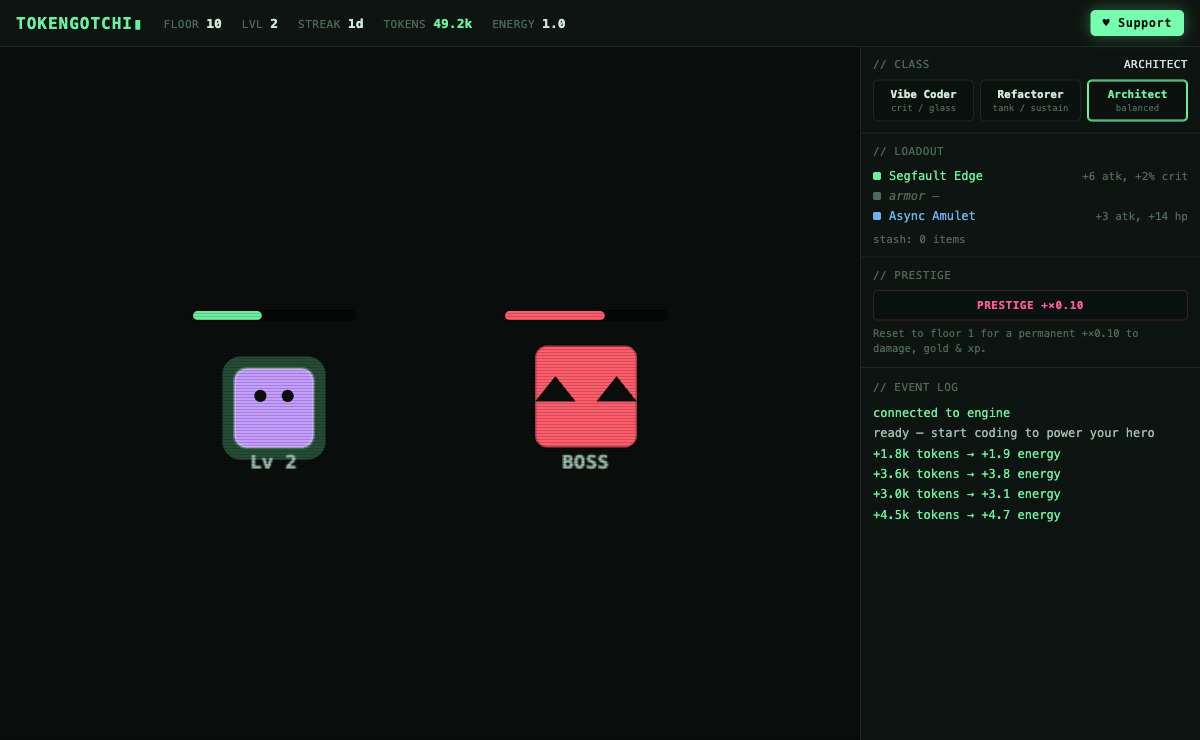
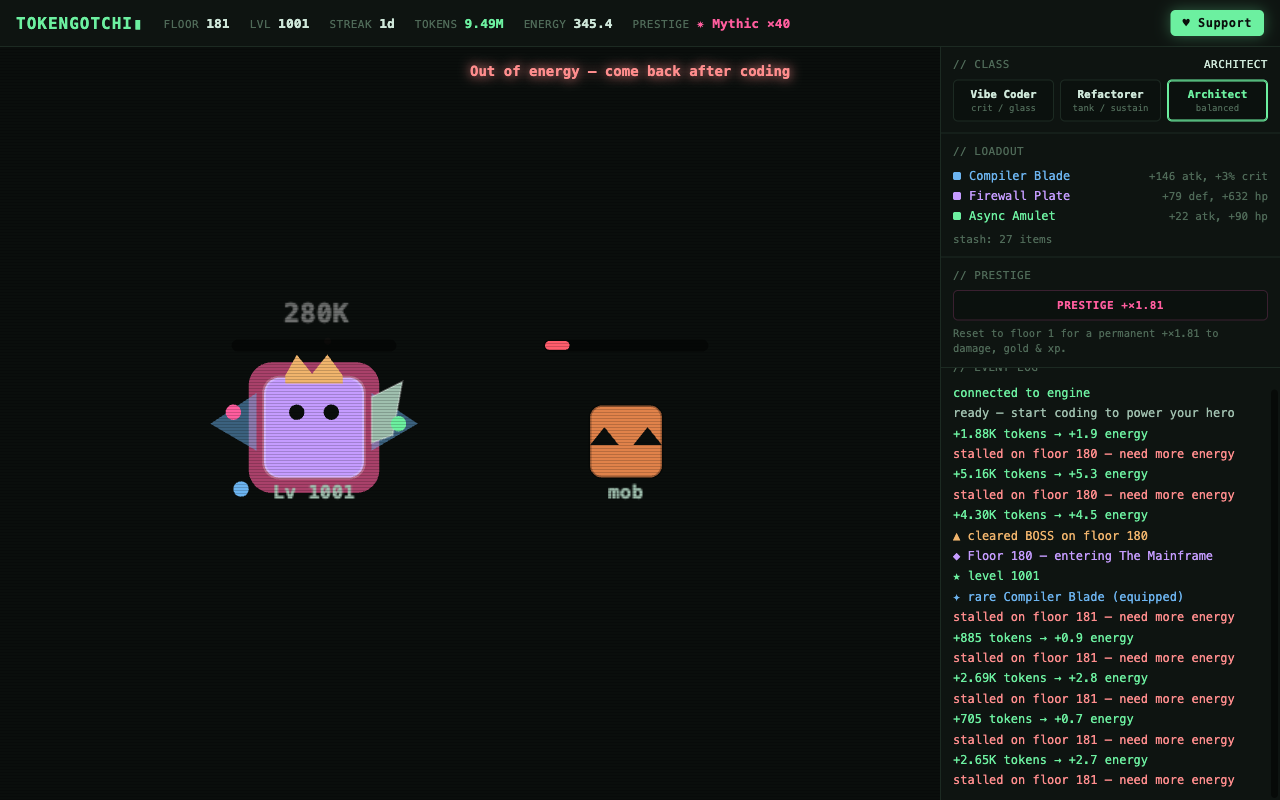
docs(site): embed gameplay video, refresh features for deep progression, fix support heading alignment, add Buy Me a Coffee

diff --git a/docs/index.html b/docs/index.html
@@ -103,7 +103,7 @@
       .shot .bar { display: flex; gap: 7px; padding: 10px 13px; border-bottom: 1px solid var(--line); background: var(--panel2); }
       .shot .bar i { width: 11px; height: 11px; border-radius: 50%; display: inline-block; }
       .shot .bar i:nth-child(1){ background:#ff5f57;} .shot .bar i:nth-child(2){ background:#febc2e;} .shot .bar i:nth-child(3){ background:#28c840;}
-      .shot img { display: block; width: 100%; height: auto; }
+      .shot img, .shot video { display: block; width: 100%; height: auto; background: var(--bg); }
 
       /* sections */
       section { padding: clamp(48px, 8vw, 80px) 0; border-top: 1px solid var(--line); }
@@ -142,8 +142,9 @@
 
       /* support */
       .support { text-align: center; }
-      .support .big { font-size: clamp(22px, 4vw, 34px); color: #eafff3; margin: 0 0 12px; }
+      .support .big { font-size: clamp(22px, 4vw, 34px); color: #eafff3; max-width: 720px; margin: 0 auto 12px; }
       .support p { color: var(--dim); max-width: 560px; margin: 0 auto 26px; }
+      .support-btns { display: flex; gap: 12px; justify-content: center; flex-wrap: wrap; }
 
       footer { border-top: 1px solid var(--line); padding: 30px 0 50px; color: var(--dim2); font-size: 13px; }
       footer .wrap { display: flex; justify-content: space-between; gap: 14px; flex-wrap: wrap; }
@@ -195,7 +196,16 @@
 
         <div class="shot">
           <div class="bar"><i></i><i></i><i></i></div>
-          <img src="./screenshot.png" alt="Tokengotchi gameplay: a hero auto-battling a boss with live token-to-energy feed, classes, loadout and prestige panels" />
+          <video
+            src="./demo.mp4"
+            poster="./demo-poster.jpg"
+            autoplay
+            loop
+            muted
+            playsinline
+            preload="metadata"
+            aria-label="Tokengotchi gameplay: a fully-evolved Mythic-rank hero with wings, crown and orbs auto-battling a deep-floor boss, with live token-to-energy feed, loadout and prestige panels"
+          ></video>
         </div>
       </div>
     </header>
@@ -229,12 +239,12 @@
       <div class="wrap">
         <p class="eyebrow">What's inside</p>
         <h2>A real idle game, not a gimmick.</h2>
-        <p class="lead">Tuned combat math, juicy feedback, and the progression loop you'd expect from an idle RPG.</p>
+        <p class="lead">Tuned combat math, juicy feedback, and a deep long-game: your hero visibly transforms, unlocks new attack styles, and climbs prestige ranks through themed zones.</p>
         <div class="feat">
           <div class="card b1">
             <div class="ic">⚔️</div>
             <h3>Idle auto-battler</h3>
-            <p>Hit flashes, crits, knockback, damage numbers, particles and screen shake — the juice that makes it feel alive.</p>
+            <p>Hit flashes, crits, knockback, damage numbers, particles and screen shake — plus new attack styles as you level: melee, ranged, multi-shot, then a screen-shaking beam.</p>
           </div>
           <div class="card b2">
             <div class="ic">🧙</div>
@@ -243,17 +253,17 @@
           </div>
           <div class="card b3">
             <div class="ic">💎</div>
-            <h3>Gear &amp; loot</h3>
-            <p>Common → Legendary drops with rarity glow, a loadout you can see, and a hero that visibly evolves.</p>
+            <h3>Loot &amp; evolution</h3>
+            <p>Common → Legendary drops with rarity glow, a loadout you can see, and a hero that visibly transforms — earning a weapon, aura, wings, a crown and orbiting orbs as it grows.</p>
           </div>
           <div class="card">
-            <div class="ic">♾️</div>
-            <h3>Prestige</h3>
-            <p>Reset the run past the first boss for a permanent multiplier — the long-tail loop that keeps you climbing.</p>
+            <div class="ic">👑</div>
+            <h3>Prestige &amp; ranks</h3>
+            <p>Reset past the first boss for a permanent, compounding multiplier and climb the ranks — Bronze, Silver, Gold… all the way to Mythic. Themed zones keep the depths fresh.</p>
           </div>
           <div class="card">
             <div class="ic">🔌</div>
-            <h3>Reads 4 tools</h3>
+            <h3>Reads your agents</h3>
             <p>Claude Code, Codex &amp; Gemini out of the box (Cursor experimental). Add another with one small adapter.</p>
           </div>
           <div class="card">
@@ -282,7 +292,10 @@
         <p class="eyebrow">Support</p>
         <p class="big">Free forever. Fueled by good vibes.</p>
         <p>If Tokengotchi made a coding session more fun, a coffee helps cover art &amp; hosting. It never unlocks power — just gratitude.</p>
-        <a class="btn kofi" href="https://ko-fi.com/danzin" target="_blank" rel="noopener" style="font-size:15px;padding:12px 22px;">♥ Buy me a coffee on Ko-fi</a>
+        <div class="support-btns">
+          <a class="btn kofi" href="https://ko-fi.com/danzin" target="_blank" rel="noopener" style="font-size:15px;padding:12px 22px;">♥ Support on Ko-fi</a>
+          <a class="btn ghost" href="https://buymeacoffee.com/danzin" target="_blank" rel="noopener" style="font-size:15px;padding:12px 22px;">or Buy Me a Coffee</a>
+        </div>
       </div>
     </section>
 
@@ -291,7 +304,9 @@
         <span>Tokengotchi — an idle auto-battler fueled by your AI coding tokens.</span>
         <span>
           <a href="https://github.com/DanZinov/tokengotchi" target="_blank" rel="noopener">GitHub</a> ·
-          <a href="https://ko-fi.com/danzin" target="_blank" rel="noopener">Ko-fi</a>
+          <a href="https://www.npmjs.com/package/tokengotchi" target="_blank" rel="noopener">npm</a> ·
+          <a href="https://ko-fi.com/danzin" target="_blank" rel="noopener">Ko-fi</a> ·
+          <a href="https://buymeacoffee.com/danzin" target="_blank" rel="noopener">Buy Me a Coffee</a>
         </span>
       </div>
     </footer>